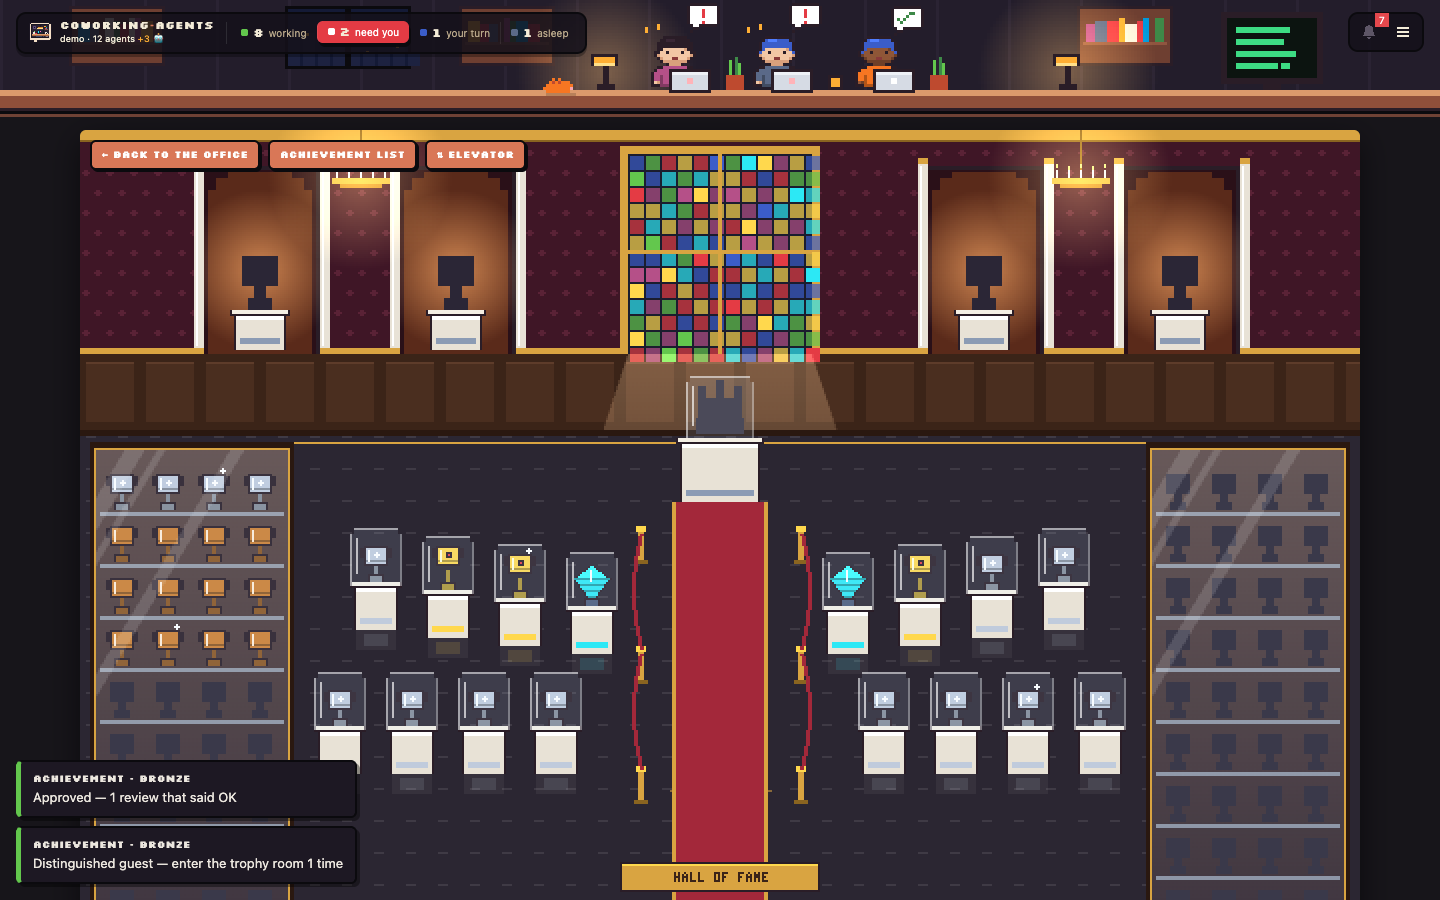
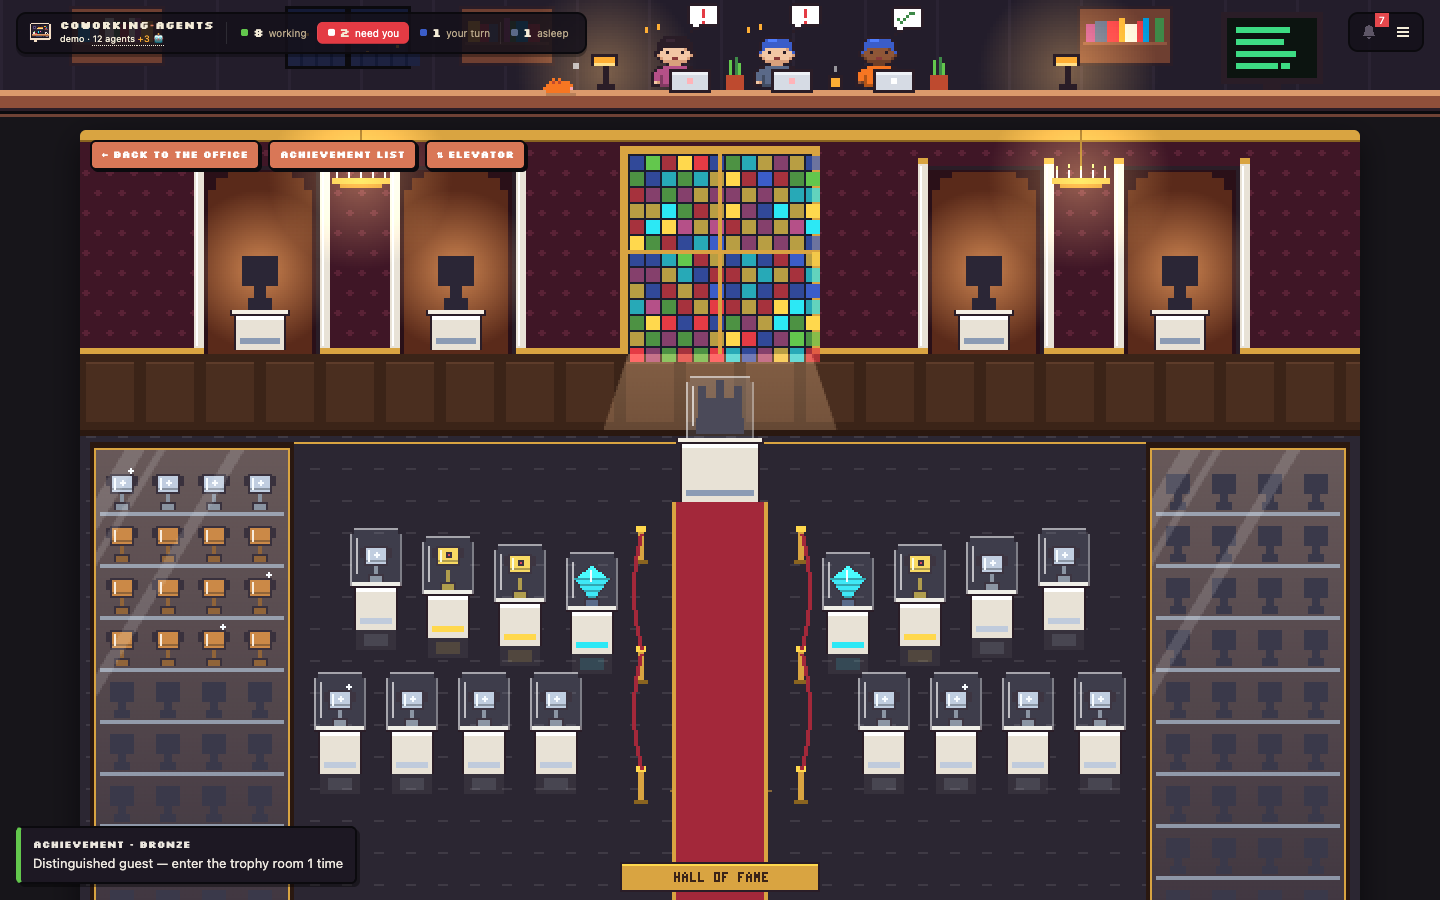
Office wall: items spread evenly, wallpaper pattern and chair rail, sunlight only through real windows

Changed region(s): [[0.4375, 0.1556, 0.5938, 0.4044], [0.0, 0.84, 0.25, 0.9333], [0.2188, 0.0311, 0.2812, 0.0622]]

diff --git a/public/js/scene.js b/public/js/scene.js
@@ -58,25 +58,35 @@ function drawUsageBoard(x, y, t) {
 const skyHour = () => styleHour(qs.get('hour') ? Number(qs.get('hour')) : new Date().getHours() + new Date().getMinutes() / 60);
 function drawWall(t, sky) {
   r(0, 0, W, TOP - 6, PAL.wall);
-  for (let x = 0; x < W; x += 24) r(x, 0, 1, TOP - 6, PAL.wallShade);
+  // wallpaper: a quiet dotted diamond pattern, then a chair rail with wood wainscot below the frames
+  for (let y = 8, k = 0; y < TOP - 16; y += 6, k++) for (let x = (k % 2) * 6; x < W; x += 12) r(x, y, 1, 1, PAL.wallShade);
   r(0, 0, W, 3, PAL.wallTrim); r(0, 3, W, 1, PAL.ink2);
+  r(0, TOP - 14, W, 2, PAL.wallTrim); r(0, TOP - 12, W, 1, PAL.wallShade); r(0, TOP - 11, W, 3, shade(PAL.wall, .93));
+  for (let x = 18; x < W; x += 36) r(x, TOP - 11, 1, 3, PAL.wallShade);
   r(0, TOP - 8, W, 2, PAL.wallShade); r(0, TOP - 6, W, 5, PAL.base); r(0, TOP - 6, W, 1, '#8f553f'); r(0, TOP - 1, W, 1, PAL.ink);
   windowBoxes = []; releaseBox = historyBox = costBox = noticesBox = null;
-  let extra = 0; // window slots after the agent of the month become the costs screen and the notice board
-  const nWin = Math.max(1, Math.floor((CX - 30) / 74));
-  // the third window slot becomes the dev corner of the wall: neon </> and two posters
+  // what hangs on the wall, chosen by how much wall there is (as many 74 px slots as fit), then spread evenly
+  // between the light switch and the whiteboard so the gaps match
+  const nWin = Math.max(1, Math.floor((CX - 30) / 74)), items = [];
+  let extra = 0; // slots after the agent of the month become the costs screen and the notice board
   for (let i = 0; i < nWin; i++) {
-    const wx = 16 + i * 74;
-    if (i === 1) drawUsageBoard(wx - 6, 7, t);
+    if (i === 1) items.push({ w: 112, draw: x => drawUsageBoard(x, 7, t) });
     else if (i === 2) continue; // covered by the usage screen
-    else if (i === 3 && nWin >= 5) { Art.drawNeon(wx + 9, 10, Date.now() - neonFlash < 400 ? (((Date.now() / 60) | 0) % 2 ? t : 120 * 47) : t, wallGlows); neonBox = { x: wx + 7, y: 8, w: 34, h: 18 }; Art.drawPoster(wx - 16, 14, 0); Art.drawPoster(wx + 46, 14, 2); releaseBox = { x: wx - 17, y: 13, w: 22, h: 28 }; historyBox = { x: wx + 45, y: 13, w: 22, h: 28 }; if (typeof drawReleaseBadge === 'function') drawReleaseBadge(wx - 16, 14, t); }
-    else if (i === 4 && nWin >= 7) drawTrophyShelf(wx - 8, 9, 64, t);
-    else if (i === 5) { if (nWin >= 7) drawAgentOfMonth(wx, 10, t, wallGlows); else Art.drawPoster(wx + 14, 12, 1); }
-    else if (i >= 6 && extra < 2 && typeof drawCostScreen === 'function') { if (extra++ === 0) { drawCostScreen(wx, 9, 48, 30, t); costBox = { x: wx - 1, y: 8, w: 50, h: 32 }; } else { drawNoticeCork(wx, 9, 48, 30, t); noticesBox = { x: wx - 1, y: 8, w: 50, h: 32 }; } }
-    else { Art.drawWindow(wx, 9, 48, 30, sky, t, i); drawSkyExtras(wx, 9, 48, 30, sky, t, i, skyHour()); drawWindowView(wx, 9, 48, 30, sky, i); drawSeasonWindow(wx, 9, 48, 30, t); drawWeather(wx, 9, 48, 30, t); drawGlassDrops(wx, 9, 48, 30, t); drawHolidayWindow(wx, 9, 48, 30, t, sky); windowBoxes.push({ x: wx, y: 9, w: 48, h: 30 }); }
+    else if (i === 3 && nWin >= 5) items.push({ w: 84, draw: x => { // the dev corner: two posters around the neon </>
+      Art.drawPoster(x, 14, 0); Art.drawPoster(x + 62, 14, 2); releaseBox = { x: x - 1, y: 13, w: 22, h: 28 }; historyBox = { x: x + 61, y: 13, w: 22, h: 28 };
+      Art.drawNeon(x + 25, 10, Date.now() - neonFlash < 400 ? (((Date.now() / 60) | 0) % 2 ? t : 120 * 47) : t, wallGlows); neonBox = { x: x + 23, y: 8, w: 34, h: 18 };
+      if (typeof drawReleaseBadge === 'function') drawReleaseBadge(x, 14, t);
+    } });
+    else if (i === 4 && nWin >= 7) items.push({ w: 64, draw: x => drawTrophyShelf(x, 9, 64, t) });
+    else if (i === 5) items.push(nWin >= 7 ? { w: 52, draw: x => drawAgentOfMonth(x, 10, t, wallGlows) } : { w: 22, draw: x => Art.drawPoster(x, 12, 1) });
+    else if (i >= 6 && extra < 2 && typeof drawCostScreen === 'function') items.push(extra++ === 0 ? { w: 48, draw: x => { drawCostScreen(x, 9, 48, 30, t); costBox = { x: x - 1, y: 8, w: 50, h: 32 }; } } : { w: 48, draw: x => { drawNoticeCork(x, 9, 48, 30, t); noticesBox = { x: x - 1, y: 8, w: 50, h: 32 }; } });
+    else items.push({ w: 48, draw: x => { Art.drawWindow(x, 9, 48, 30, sky, t, i); drawSkyExtras(x, 9, 48, 30, sky, t, i, skyHour()); drawWindowView(x, 9, 48, 30, sky, i); drawSeasonWindow(x, 9, 48, 30, t); drawWeather(x, 9, 48, 30, t); drawGlassDrops(x, 9, 48, 30, t); drawHolidayWindow(x, 9, 48, 30, t, sky); windowBoxes.push({ x, y: 9, w: 48, h: 30 }); } });
   }
-  // the ON AIR sign takes the gap between the last window and the whiteboard, when there is one
-  { const lastEnd = 16 + (nWin - 1) * 74 + 48, gap = RX - 14 - lastEnd; moodBox = null; if (gap >= 32) drawMoodSign(lastEnd + ((gap - 24) / 2 | 0), 16, t, wallGlows); }
+  moodBox = null;
+  const left = 18, right = RX - 24, sum = () => items.reduce((n, it) => n + it.w, 0);
+  if (right - left - sum() - 26 >= (items.length + 1) * 8) items.push({ w: 26, draw: x => drawMoodSign(x + 1, 16, t, wallGlows) }); // ON AIR, when there is room
+  const gap = items.length > 1 ? Math.min(40, Math.max(6, (right - left - sum()) / (items.length - 1))) : 0, start = left + Math.max(0, ((right - left) - sum() - gap * (items.length - 1)) / 2);
+  let x = start; for (const it of items) { it.draw(Math.round(x)); x += it.w + gap; }
   boardBox = { x: RX - 14, y: 8, w: 56, h: 30 };
   if (typeof drawTaskBoard === 'function') drawTaskBoard(boardBox.x, boardBox.y, boardBox.w, boardBox.h, t); else Art.drawWhiteboard(boardBox.x, boardBox.y, boardBox.w, boardBox.h, counts(), t);
   Art.drawClock(RX + 58, 20);
@@ -94,8 +104,8 @@ function drawShafts(sky, nWin) {
   if (sky.phase === 'night') return;
   ctx.save();
   ctx.fillStyle = sky.phase === 'day' ? 'rgba(255,246,214,0.08)' : 'rgba(255,180,120,0.08)';
-  for (let i = 0; i < nWin; i++) {
-    const x = 16 + i * 74;
+  for (const b of windowBoxes) {
+    const x = b.x;
     ctx.beginPath(); ctx.moveTo(x, TOP); ctx.lineTo(x + 48, TOP); ctx.lineTo(x + 80, TOP + 80); ctx.lineTo(x + 32, TOP + 80); ctx.closePath(); ctx.fill();
   }
   ctx.restore();
@@ -400,7 +410,7 @@ function drawScene(t, dt) {
   r(CX - 8, TOP, 16, H - TOP, '#6e2f3f'); r(CX - 6, TOP, 12, H - TOP, '#8e3e52');
   for (let y = TOP + 6; y < H; y += 10) { r(CX - 1, y, 2, 4, '#c96f84'); r(CX - 5, y + 5, 1, 1, '#c96f84'); r(CX + 4, y + 5, 1, 1, '#c96f84'); }
   for (let y = TOP + 70; y < H - 30; y += 150) Art.drawPlant(CX + 9, y, false);
-  if (sky.phase !== 'night') for (let i = 0; i < nWin; i++) lights.push({ x: 40 + i * 74, y: TOP + 20, r: 60 });
+  if (sky.phase !== 'night') for (const b of windowBoxes) lights.push({ x: b.x + 24, y: TOP + 20, r: 60 });
   const arrived = z => layout.filter(c => c.actor && c.actor.mode === z);
   const meet = arrived('meet').map(c => ({ spot: c.actor.spot, lk: look(c.p.id), label: c.p.name, lead: true }));
   const used = new Set(meet.map(m => m.spot));

diff --git a/CHANGELOG.md b/CHANGELOG.md
@@ -1,6 +1,7 @@
 # Changelog
 
 ## Unreleased
+- The office wall: frames, screens and windows spread evenly between the light switch and the whiteboard (same gap between each), a quiet wallpaper pattern and a chair rail with wainscot instead of plain stripes; sunlight comes in only through real windows
 - Everyone in the office: click the agent count under the office name for every agent with its state and the helpers working for it; an agent opens its panel, a helper opens its conversation
 - Top bar: under the office name, how many agents are in the office, with "+N 🤖" while helpers (subagents) work (hover for who); the bar keeps its size; the phone shows the same in its header and on each agent's card
 - Conversation (computer and phone): every agent's helpers (Claude subagents, Codex child threads) listed above the chat, with a dot on the ones still working; pick one to read its own conversation, from the request it got to its answer, with the same search
